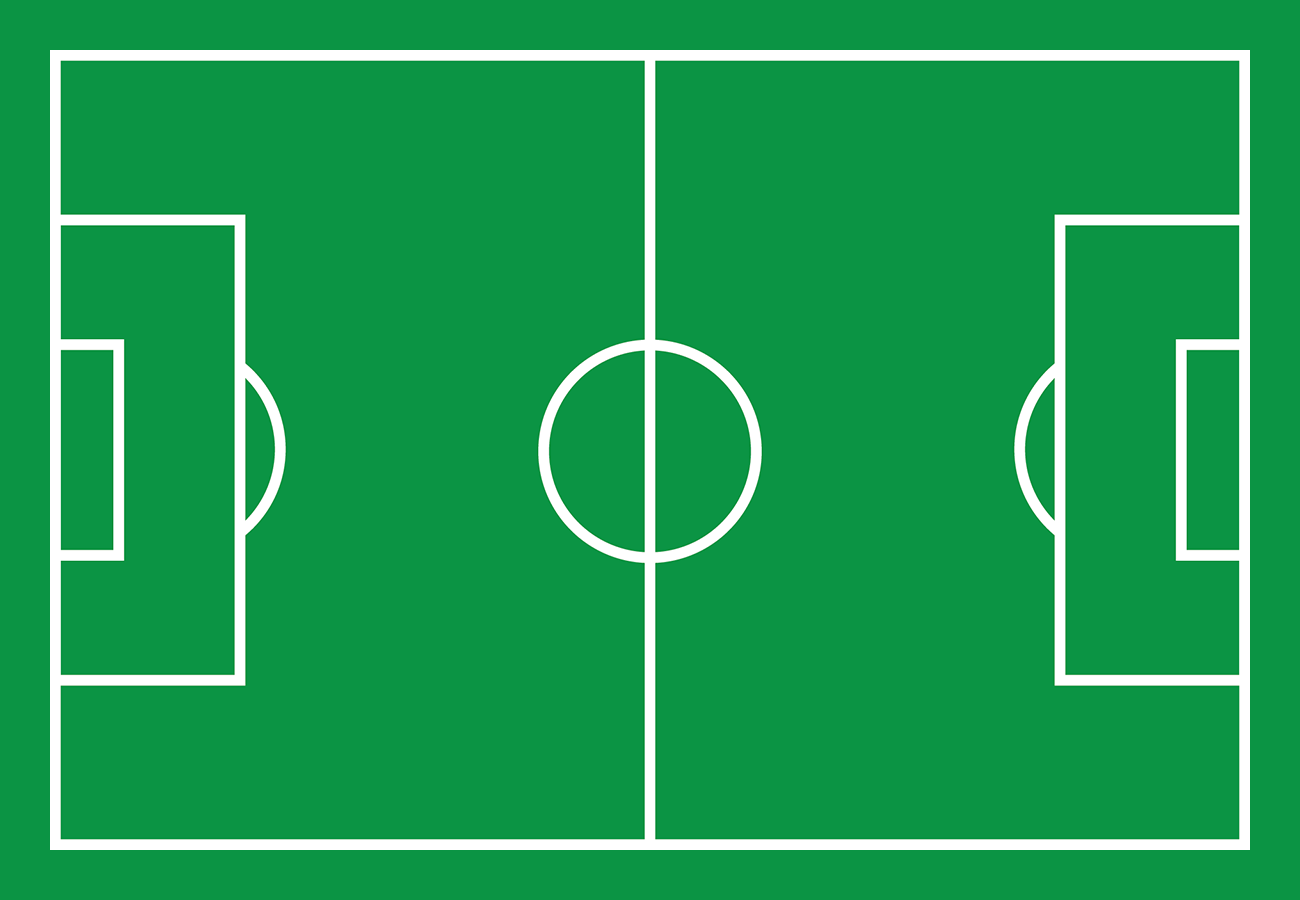
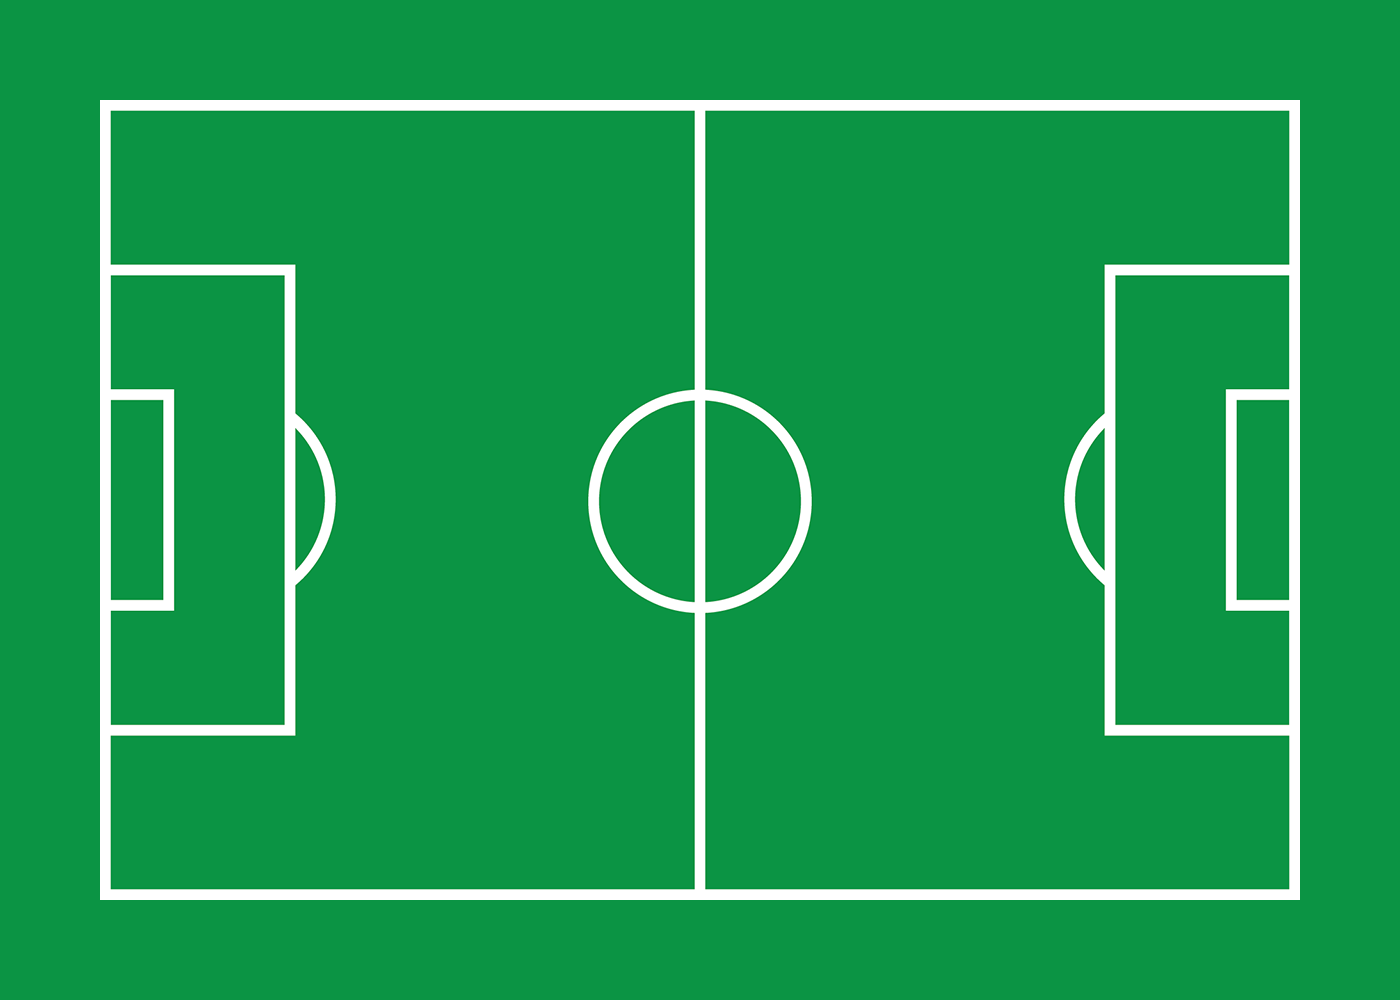
Add new top down field, and adjust border
- Add evaluation method to player_displayer
- Change border to 100 px
- Add new image with bigger border

Changed region(s): [[0.0308, 0.0311, 0.9846, 0.9644], [0.4, 0.3733, 0.5846, 0.6533]]

diff --git a/code/player_displayer.py b/code/player_displayer.py
@@ -6,10 +6,10 @@ import numpy as np
 import copy
 from player_tracker import PlayerTracker
 
-BORDER = 50
+BORDER = 100
 PATH_TOP_DOWN_IMG = '../images/FootballField_small_border.png'
-WIDTH_TD_IMG = 1300
-HEIGHT_TD_IMG = 900
+WIDTH_TD_IMG = 1400
+HEIGHT_TD_IMG = 1000
 
 # Dimensions of the field in m without borders
 FIELD_HEIGHT = 70.0
@@ -226,9 +226,62 @@ def distanceBetweenCoordsTopDown(pos1, pos2):
         
     return distance * PX_TO_M
 
+def evalMapping():
+    img = cv2.imread(PATH_TOP_DOWN_IMG)
+    H = getHomographyMatrix()
+    
+    ## Points on the image (row, col) == (y,x)
+    pts = np.zeros([21,2])
+    ## Special points on the image
+    pts[0,:] = [300,2370] # A (in the white)
+    pts[1,:] = [443,1929] # B (in the white)
+    pts[2,:] = [245,2817] # C (in the white)
+    pts[3,:] = [591,2000] # D (in the white)
+    pts[4,:] = [358,2664] # E (in the white)
+    pts[5,:] = [359,3454] # F (in the white)
+    pts[6,:] = [355,4083] # G (in the white)
+    pts[7,:] = [340,4880] # H (in the white)
+    pts[8,:] = [231,4678] # I (in the white)
+    pts[9,:] = [576,5705] # J (in the white)
+    pts[10,:] = [280,5176] # K (in the white)
+    pts[11,:] = [421,5722] # L (in the white)
+    pts[12,:] = [279,5341] # M (in the white)
+    pts[13,:] = [420,5948] # N (in the white)
+    pts[14,:] = [301,2219] # O (in the white)
+    pts[15,:] = [445,1721] # P (in the white)
+        
+    ## Corners and center
+    pts[16,:] = [196,2593] # Top left (outer coord)
+    pts[17,:] = [177,4892] # Top right (outer coord)
+    pts[18,:] = [950,8206] # Bottom right (outer coord)
+    pts[19,:] = [942,40] # Bottom left (outer coord)
+    pts[20,:] = [350,3767] # Center
+    
+    a = np.zeros([2])
+    i = 0
+    for pt in pts:
+        i = i + 1
+        a = getTransformationCoords(H, [pt[0],pt[1]])
+        try:
+            for i in xrange(5):
+                for j in xrange(5):
+                    if i+j <= 5 :
+                        img[int(a[0]+i),int(a[1]+j)] = [0,0,255]
+                        img[int(a[0]+i),int(a[1]-j)] = [0,0,255]
+                        img[int(a[0]-i),int(a[1]+j)] = [0,0,255]
+                        img[int(a[0]-i),int(a[1]-j)] = [0,0,255]
+        except IndexError:
+            print 'Player '+str(i)+' out side the field!'
+    
+    cv2.imwrite('EvalField1.jpg', img)        
+    #cv2.imshow('new img', img)
+    cv2.waitKey(0)
 
 if __name__ == '__main__':
+    evalMapping()
+    '''
     with open("players.txt") as fin:
         createTopDownVideo([
             eval(line) for line in fin
         ])
+    '''
